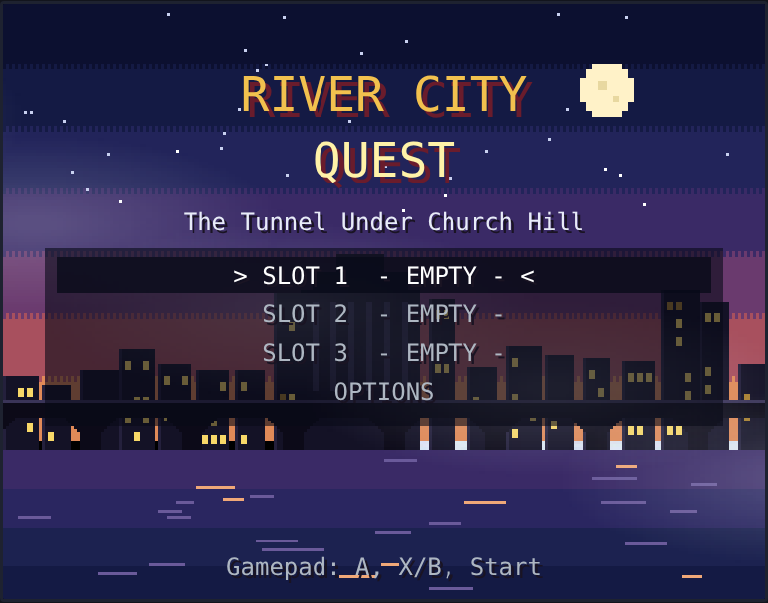
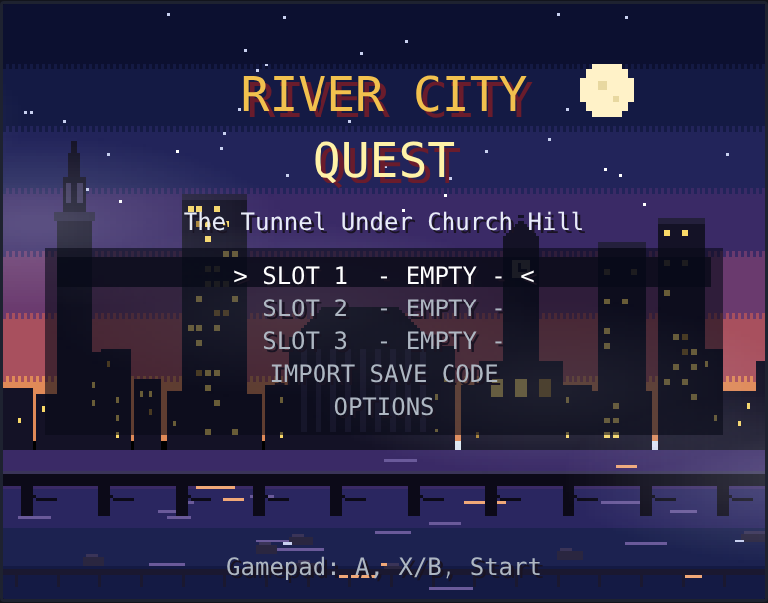
A Richmond look: cast-iron porches and menu scrollwork, ghost signs and murals on old brick, neighborhood house styles (Fan bay windows, Church Hill clapboard and tin roofs, Jackson Ward porches, warehouses, the glass conservatory), tea-green James with granite boulders, magnolias and dogwoods, and 
Claude-Session: https://claude.ai/code/session_01Eoe2yTJzU23vy12F62G5WF

diff --git a/js/style.js b/js/style.js
@@ -1,0 +1,103 @@
+"use strict";
+/* River City Quest: Richmond's look. Cast-iron porches and railings, ghost signs and murals on old brick,
+   neighborhood house styles, the James River palette, magnolias and dogwoods, and the skyline. */
+
+/* ---------- a 3x5 pixel font for painted signs ---------- */
+const F5={A:'010101111101101',B:'110101110101110',C:'011100100100011',D:'110101101101110',E:'111100110100111',F:'111100110100100',G:'011100101101011',H:'101101111101101',
+  I:'111010010010111',J:'001001001101010',K:'101101110101101',L:'100100100100111',M:'101111111101101',N:'110101101101101',O:'010101101101010',P:'110101110100100',
+  Q:'010101101110011',R:'110101110101101',S:'011100010001110',T:'111010010010010',U:'101101101101111',V:'101101101101010',W:'101101111111101',X:'101101010101101',
+  Y:'101101010010010',Z:'111001010100111','&':'010101010101011','.':'000000000000010',' ':'000000000000000','5':'111100110001110','C2':'011100100100011'};
+function sign5(str,x,y,sc,col){let q=x;for(const ch of str){const m=F5[ch];if(m)for(let i=0;i<15;i++)if(m[i]=='1')R(q+(i%3)*sc,y+(i/3|0)*sc,sc,sc,col);q+=4*sc;}}
+
+/* ---------- where the ghost signs and murals go ---------- */
+const SIGNS=['FLOUR & FEED','TOBACCO','DRY GOODS','COAL & ICE','HARDWARE','GINGER ALE','RIVER CITY SOAP','CIGARS','FURNITURE','OYSTERS','SEED & GRAIN','PIANOS'];
+const DECOR={'ow:0,0':['sign','mural'],'ow:1,0':['sign','mural'],'ow:2,0':['sign'],'ow:3,1':['sign','sign'],'ow:2,3':['mural','sign','mural'],'ow:1,1':['mural','mural'],'ow:0,1':['mural','mural'],'ow:3,2':['sign'],'ow:1,2':[]};
+function decorFor(s){if(s.decor)return s.decor;s.decor=[];s.decoCells=new Set();const want=(DECOR[s.id]||[]).slice();if(!want.length||!s.g0)return s.decor;
+  const runs=[];for(let y=1;y<s.h-1;y++){let x0=-1;for(let x=0;x<=s.w;x++){const ok=x<s.w&&s.g0[y][x]=='B'&&s.g0[y+1]&&s.g0[y+1][x]!='B'&&s.g0[y-1][x]=='B';
+      if(ok&&x0<0)x0=x;if(!ok&&x0>=0){if(x-x0>=5)runs.push([x0,y,x-x0]);x0=-1;}}}
+  runs.sort((a,b)=>b[2]-a[2]||HH(a[0],a[1],s.seed)%7-HH(b[0],b[1],s.seed)%7);
+  for(const r of runs){if(!want.length)break;const kind=want.shift(),len=Math.min(r[2],kind=='sign'?9:8),x0=r[0]+((r[2]-len)>>1),k=HH(s.seed,r[1],x0)>>>0;
+    s.decor.push({kind,x:x0,y:r[1],len,k});for(let i=0;i<len;i++)s.decoCells.add((x0+i)+','+r[1]);}
+  return s.decor;}
+function isDecor(s,tx,ty){return s.decoCells&&s.decoCells.has(tx+','+ty);}
+function drawDecor(s){for(const d of decorFor(s)){const x=d.x*TS,y=d.y*TS,w=d.len*TS;
+  if(d.kind=='sign'){const txt=SIGNS[d.k%SIGNS.length],sc=txt.length*8<=w-8?2:1,tw=txt.length*4*sc-sc,th=5*sc;
+    g.globalAlpha=.42;R(x+3,y+3,w-6,11,'#e8dcc0');g.globalAlpha=.5;sign5(txt,x+((w-tw)>>1),y+3+((11-th)>>1),sc,'#6a1c1c');
+    g.globalAlpha=1;for(let i=0;i<w/3;i++){const q=HH(d.k,i,9);if(q%3==0){const px=x+3+q%(w-6),py=y+3+(q>>8)%11;R(px,py,1+(q>>12)%2,1,'#a85040');}}}
+  else{drawMural(d.k%6,x+1,y+2,w-2,12);R(x+1,y+14,w-2,1,'rgba(10,8,24,.3)');}}}
+function drawMural(kind,x,y,w,h){
+  if(kind==0){const sky=['#f08a4a','#f8b86a','#f8d890'];sky.forEach((c,i)=>R(x,y+i*2,w,2,c));R(x,y+6,w,h-6,'#3e6a8a');R(x+(w>>1)-4,y+1,8,5,'#fff2a8');
+    for(let i=0;i<w;i+=6)R(x+i,y+8+((i>>2)&1),4,1,'#a8c8e0');for(let i=6;i<w;i+=17)R(x+i,y+10,4,2,'#8a8e9c');}
+  else if(kind==1){R(x,y,w,h,'#2e8a8a');for(let i=4;i<w-4;i+=12){const cx=x+i+2,cy=y+6;R(cx-3,cy-1,7,3,'#ffffff');R(cx-1,cy-3,3,7,'#ffffff');R(cx-3,cy-1,1,1,'#f080a0');R(cx+3,cy+1,1,1,'#f080a0');R(cx,cy,1,1,'#d8b048');}}
+  else if(kind==2){R(x,y,w,h,'#f2c14e');for(let i=3;i<w-8;i+=14){R(x+i,y+4,6,4,'#c41e3a');R(x+i+5,y+2,3,3,'#c41e3a');R(x+i+7,y+3,2,1,'#f08030');R(x+i-1,y+5,2,2,'#8a1424');R(x+i+6,y+3,1,1,'#1a1423');}}
+  else if(kind==3){R(x,y,w,h,'#1e2a5e');const C=['#e83048','#f2c14e','#3ac2e8','#58c868','#f890a0'];for(let i=0;i<w;i+=6){const c=C[(i/6)%5];for(let j=0;j<6;j++)R(x+i+j,y+h-1-Math.min(j,5-j)*2,1,1+Math.min(j,5-j)*2,c);}}
+  else if(kind==4){R(x,y,w,h,'#a8d0e0');R(x,y+9,w,3,'#6a9ab0');for(let i=6;i<w-6;i+=22){R(x+i,y+2,2,8,'#5a6470');R(x+i-2,y+2,4,2,'#5a6470');R(x+i-4,y+3,2,1,'#e8b048');R(x+i+2,y+5,4,3,'#7a8490');R(x+i+1,y+10,1,2,'#3a4048');R(x+i+3,y+10,1,2,'#3a4048');}}
+  else{R(x,y,w,h,'#6a3a8a');for(let i=0;i<w;i+=5){const hh=3+HH(i,x,3)%7;R(x+i,y+h-hh,4,hh,'#2a1a3a');if(hh>5)R(x+i+1,y+h-hh+2,1,1,'#f8d868');}R(x+3,y+2,3,3,'#fff2a8');}}
+
+/* ---------- cast iron ---------- */
+function ironPorch(x,y,tint){const I='#1a1a22',H='#4a4a58';
+  R(x,y+5,16,2,I);R(x,y+5,16,1,H);R(x+1,y+7,2,7,I);R(x+13,y+7,2,7,I);R(x+1,y+7,1,7,H);
+  for(let i=3;i<13;i+=3){R(x+i,y+8,2,1,I);R(x+i,y+9,1,1,I);R(x+i+1,y+10,1,1,I);}
+  R(x,y+11,16,1,I);R(x,y+14,16,1,I);for(let i=1;i<16;i+=2)R(x+i,y+12,1,2,I);for(let i=2;i<16;i+=4){R(x+i,y+12,1,1,H);}
+  R(x,y+15,16,1,'rgba(10,8,24,.3)');}
+function ironCurl(x,y,fx,fy,c,h){const P=[[0,0],[1,0],[2,0],[3,0],[0,1],[0,2],[0,3],[2,2],[3,2],[3,3],[2,3]];for(const [a,b] of P)R(x+a*fx,y+b*fy,1,1,c);R(x+(fx>0?1:-1),y+(fy>0?1:-1),1,1,h);}
+
+/* ---------- neighborhood house styles ---------- */
+function styledFacade(s,x,y,h,tx,ty,c){
+  const hs=s.hs,ft=h%4,clap=c[3]=='clap';
+  if(hs=='glass'){R(x,y,16,16,'#a8d8d8');for(let i=0;i<16;i+=4){R(x+i,y,1,16,'#eef6f2');}for(let j=3;j<16;j+=5)R(x,y+j,16,1,'#eef6f2');R(x+2,y+2,3,3,'#d8f0f0');R(x,y+15,16,1,'#6a8a8a');return true;}
+  if(clap){R(x,y,16,16,c[0]);for(let j=1;j<16;j+=3){R(x,y+j,16,1,c[1]);R(x,y+j+1,16,1,c[2]);}R(x+15,y,1,16,c[1]);}
+  if(hs=='fan'&&ft>0&&ft<3){R(x+2,y+3,12,11,'#efe4c8');R(x+3,y+4,10,9,'#d8ccb0');R(x+2,y+3,12,1,'#fffaf0');R(x+2,y+14,12,1,'rgba(10,8,24,.35)');
+    for(const a of[4,7,10]){const lit=(h>>(5+a))%3==0;R(x+a,y+5,2,7,lit?'#f8d868':'#28406a');if(!lit)R(x+a,y+5,1,1,'#88a8d8');}
+    if(s.ow)(s.wins||(s.wins={}))[x+','+y]=[x,y,(h>>7)%3!=0];
+    for(let i=1;i<16;i+=3)R(x+i,y+2,1,1,'#8a7a60');return true;}
+  if(hs=='hill'&&ft>0&&ft<3){for(const a of[3,9]){R(x+a-1,y+4,1,8,'#2f6a3a');R(x+a+4,y+4,1,8,'#2f6a3a');R(x+a,y+4,4,8,'#efe4c8');R(x+a+1,y+5,2,6,'#28406a');R(x+a+1,y+8,2,1,'#efe4c8');}
+    if(s.ow)(s.wins||(s.wins={}))[x+','+y]=[x,y,(h>>7)%3!=0];return true;}
+  if(hs=='ware'&&ft>0){for(const a of[2,9]){R(x+a,y+5,5,9,'#c8bca8');R(x+a+1,y+4,3,1,'#c8bca8');R(x+a+1,y+6,3,8,'#24324e');R(x+a+2,y+5,1,1,'#24324e');R(x+a+1,y+9,3,1,'#c8bca8');R(x+a+1,y+6,1,1,'#6a88b8');}
+    if(ft==3){R(x+3,y+4,10,12,'#1a1423');R(x+4,y+5,8,11,'#2f5a3a');R(x+8,y+5,1,11,'#1a1423');R(x+4,y+9,8,1,'#24482e');}
+    if(s.ow&&ft<3)(s.wins||(s.wins={}))[x+','+y]=[x,y,(h>>7)%3!=0];return true;}
+  return false;}
+function wantsPorch(s,h){return(s.hs=='jw'&&h%3!=1)||(s.hs=='hill'&&h%3==0)||(s.hs=='fan'&&h%5==0);}
+function tinRoof(x,y,h,nb){R(x,y,16,16,'#8a929c');for(let i=1;i<16;i+=4){R(x+i,y,1,16,'#b8c0c8');R(x+i+1,y,1,16,'#6a727c');}
+  if(h%5==0)R(x+2+h%9,y+3,3,2,'#a86a4a');
+  if(nb(0,-1)!='B'){R(x,y,16,2,'#c8d0d8');R(x,y+2,16,1,'#4a525c');}if(nb(-1,0)!='B')R(x,y,1,16,'#c8d0d8');if(nb(1,0)!='B')R(x+15,y,1,16,'#4a525c');}
+function glassRoof(x,y,h,nb){R(x,y,16,16,'#9ad0d0');for(let i=0;i<16;i+=4)R(x+i,y,1,16,'#e4f4f0');for(let j=0;j<16;j+=4)R(x,y+j,16,1,'#e4f4f0');R(x+5,y+5,4,4,'#c8ecec');
+  if(nb(0,-1)!='B')R(x,y,16,2,'#4a6a6a');if(nb(-1,0)!='B')R(x,y,2,16,'#4a6a6a');if(nb(1,0)!='B')R(x+14,y,2,16,'#4a6a6a');}
+
+/* ---------- the James River and the ponds ---------- */
+const WATER={river:{base:'#4a6e62',dark:'#3e5e54',hi:'#b8d4c0',mid:'#7a9e8a',shade:'#2c4640',foam:'#e8f4ea',rapid:'#5e8878'},
+  pond:{base:'#3a7a86',dark:'#326c78',hi:'#a8dce0',mid:'#5aa0b0',shade:'#24505c',foam:'#d8f4f4',rapid:'#4a8a9a'}};
+function waterOf(s){return s.ow&&(s.ay>=2||s.id=='ow:2,3')&&s.id!='ow:0,2'&&s.id!='ow:1,3'?WATER.river:WATER.pond;}
+function boulder(x,y,h){R(x+3,y+7,10,7,'#1a1423');R(x+4,y+6,8,8,'#1a1423');R(x+4,y+7,8,6,'#8e909c');R(x+5,y+6,6,1,'#a8aab4');R(x+5,y+7,3,2,'#c4c6ce');R(x+9,y+11,3,2,'#6a6c78');
+  R(x+2,y+13,12,1,'#e8f4ea');R(x+1,y+12,2,1,'#e8f4ea');R(x+13,y+12,2,1,'#e8f4ea');}
+
+/* ---------- magnolias and dogwoods ---------- */
+function treeKind(h){const q=HH(h,3,4)%7;return q==0?'magnolia':q==1?'dogwood':'oak';}
+function magnolia(x,y,h){blob(x,y,'#1f5a3a','#143c28','#0c2a1a');R(x+4,y+2,4,2,'#3a8a5a');R(x+9,y+5,3,1,'#3a8a5a');R(x+3,y+6,2,1,'#3a8a5a');
+  const sn=typeof season=='function'?season():'summer';if(sn=='spring'||sn=='summer')for(const [a,b] of [[5,4],[10,3],[7,8]]){R(x+a,y+b,3,3,'#fffaf0');R(x+a+1,y+b+1,1,1,'#e8d890');}}
+function dogwood(x,y,h){const sn=typeof season=='function'?season():'summer';
+  if(sn=='fall'){blob(x,y,'#a83a28','#7a2418','#4a140c');R(x+4,y+2,4,2,'#d86a48');R(x+9,y+5,2,1,'#e8a048');return;}
+  if(sn=='winter'){R(x+7,y+3,2,8,'#5a3a24');R(x+4,y+4,3,1,'#5a3a24');R(x+9,y+5,3,1,'#5a3a24');R(x+5,y+2,1,2,'#5a3a24');R(x+10,y+3,1,2,'#5a3a24');return;}
+  blob(x,y,'#3a8a3a','#2a6a2a','#143c22');if(sn=='spring')for(let i=0;i<7;i++){const q=HH(h,i,21);R(x+3+q%10,y+2+(q>>4)%8,2,2,i%3?'#ffffff':'#f8b8d0');}else{R(x+4,y+2,4,2,'#58a850');}}
+
+/* ---------- the skyline for the title and ending ---------- */
+function drawSkyline(){const D='#141226',E='#24203c',WIN=(x,y)=>HH(x,y,(frame>>6))%9?'#f8d868':'#a88030';
+  for(let i=0;i<W;i+=11){const q=HH(i,5,2),hh=14+q%22,w=9+(q>>6)%3;R(i,150-hh,w,hh,D);for(let y=150-hh+4;y<146;y+=6)for(let x=i+2;x<i+w-2;x+=3)if(HH(x,y,4)%4==0)R(x,y,1,2,WIN(x,y));}
+  // the Carillon: square tower, open belfry, little spire
+  R(18,72,12,78,D);R(17,70,14,3,E);R(20,58,8,12,D);R(21,60,2,7,'#3a3458');R(25,60,2,7,'#3a3458');R(22,50,4,8,D);R(23,46,2,4,D);
+  // the James Monroe Building and the Riverfront Plaza towers
+  R(60,64,22,86,D);R(60,64,22,2,E);for(let y=68;y<146;y+=5)for(let x=62;x<80;x+=3)if(HH(x,y,7)%3==0)R(x,y,2,2,WIN(x,y));
+  for(const [x,t] of [[200,80],[220,72]]){R(x,t,16,150-t,D);R(x,t,16,2,E);for(let y=t+4;y<146;y+=5)for(let xx=x+2;xx<x+14;xx+=3)if(HH(xx,y,8)%3==0)R(xx,y,2,2,WIN(xx,y));}
+  // the Capitol: temple front with columns and a pediment
+  R(96,112,48,38,D);for(let i=0;i<10;i++)R(98+i,111-i,44-i*2,1,D);for(let x=100;x<142;x+=5)R(x,116,2,28,'#2c2848');R(94,144,52,6,D);
+  // Main Street Station: clock tower with a pyramid roof
+  R(168,78,12,72,D);for(let i=0;i<8;i++)R(168+i,78-i,12-i*2,1,D);R(171,86,6,6,'#e8dcb0');R(173,87,1,3,'#1a1423');R(173,89,3,1,'#1a1423');R(160,120,28,30,D);
+  for(const x of[164,172,180])R(x,126,4,6,WIN(x,126));
+}
+function drawRiverFront(){
+  // Mayo Bridge: low arches across the rapids
+  R(0,158,W,4,'#0c0a18');R(0,157,W,1,'#3a3458');for(let x=6;x<W;x+=26){R(x,162,4,10,'#0c0a18');for(let i=0;i<8;i++)R(x+4+i,162+Math.round(Math.sqrt(64-(i-4)*(i-4))/2),1,1,'#0c0a18');}
+  // rocks in the falls and the Pipeline walkway
+  for(let i=0;i<9;i++){const q=HH(i,9,3),x=(q%W),y=176+(q>>8)%14;R(x,y,6+(q>>4)%4,3,'#2a2640');R(x+1,y-1,4,1,'#3a3458');if((frame>>3)+i&1)R(x-2,y+2,3,1,'#c8d0f0');}
+  R(0,190,W,2,'#1a1830');for(let x=4;x<W;x+=14)R(x,190,1,6,'#1a1830');
+}

diff --git a/js/world.js b/js/world.js
@@ -133,7 +133,7 @@ const FOLKC=[[C3('#6a4020','#4a2c14','#8a5a30'),C3('#58a850','#2f7a3c','#90d070'
 let folkN=0;
 const F=(...lines)=>{const c=FOLKC[folkN++%FOLKC.length];return{who:'Local',hat:c[0],shirt:c[1],talk:'folk',lines,wander:true};};
 
-ow(0,0,"Scott's Addition",{base:'p',pal:[STEEL,BRICK,STEEL,BRICK2],rows:[
+ow(0,0,"Scott's Addition",{hs:'ware',base:'p',pal:[STEEL,BRICK,STEEL,BRICK2],rows:[
 'B13 p6 B13','B X12 p6 B13','B X12 p6 B13','B ..?..nn..?.. p6 B13','B .?.n....n.?. p6 B4 D B8','B ..n..?...n.. p6 susasasus`ss B',
 'B ...n.nn.n?.. p6 sasasas@ssss B','B ..?.....?... p6 s2 M s2 l s6 B','B f5 .. f5 @ p5 s12 B','B p31','B p6 ! p17 ! p6','B p10 @ p20','B p31',
 'B s2 l s5 l s4 p4 s4 l s5 l s2 B','B B5 s B6 s p4 s b12 B','B B5 s B6 s p4 s b .10 b B','B B5 s B6 s p4 s b ...,,.!... b B','B B5 s B6 s p4 s b .,,....,,. b B',
@@ -148,14 +148,14 @@ ow(1,0,"Broad Street",{base:'p',pal:[BRICK,CREAM,['#8a8e9c','#62667a','#a8acba']
   npcs:[N('commuter'),F('My grandmother had lunch at the Miller & Rhoads Tea Room every Christmas.','The streetcars are long gone, but the Pulse bus runs right down Broad.')],
   enT:['rat','scooter','scooter','rat'],readsL:['broad','streetcar'],doorsL:[{to:'tearoom:0,0'}],chestsL:['coins50'],
   lm:[{art:'store',x:1,y:1,w:13,h:6,read:'broad',c:'#c8b48c'},{art:'store',x:18,y:1,w:13,h:6,read:'broad',c:'#b0a8a0'},{art:'shelter',x:23,y:13,w:3,h:1}],cars:[{y:10,dir:1,kind:'bus'},{y:12,dir:-1}]});
-ow(2,0,"Jackson Ward",{base:'p',pal:[BRICK,BRICK2],rows:[
+ow(2,0,"Jackson Ward",{hs:'jw',base:'p',pal:[BRICK,BRICK2],rows:[
 'B32','B B8 s2 l s7 X12 B','B B8 s10 X12 B','B B8 s3 @ s6 X12 B','B B4 D B3 s10 X5 D X6 B','B s8 M s7 ? s5 ? s7 B','B s2 t s4 t s4 t s4 t s4 t s7 B',
 'B s4 ? s15 Q s9 B','B s5 @ s13 Y s10 B','p32','p5 ! p20 ! p5','p12 @ p19','p20 ? p11','B s2 l s10 p4 s7 ? s2 l s2 B','B f3 s f8 s p4 s f8 s f3 B',
 'B B12 s p4 s B12 B','B B12 s p4 s B12 B','B B12 s p4 s B12 B','B s5 ? s7 p4 s13 B','B b3 s ` s8 p4 s7 ! s5 B','B $ b2 s10 p4 s13 B','B14 p4 B14'],
   npcs:[N('musician'),N('dancer'),F('They called Second Street the Deuce. Every club on it had a band.','Mrs. Walker\'s house is just down the street. They keep it as a museum.')],
   enT:['rat','scooter','rat'],readsL:['jward','bojangles','bojangles'],doorsL:[{to:'bank:0,0'},{to:'hippo:0,0'}],chestsL:['coins50'],
   lm:[{art:'hippodrome',x:19,y:1,w:12,h:4,read:'jward'}],cars:[{y:9,dir:1}]});
-ow(3,0,"Church Hill",{base:'.',rows:[
+ow(3,0,"Church Hill",{hs:'hill',roof:'tin',pal:[BRICK,['#e8d48a','#b8a45a','#f8e8b0','clap'],['#9ab8a0','#6c8c74','#bcd8c2','clap'],BRICK2,['#8aa0c8','#5e749c','#aec2e4','clap']],base:'.',rows:[
 'T32','T r8 .9 X6 .7 T','T r8 .9 X6 .7 T','T r % r D r4 .9 X6 .3 @ .3 T','T .3 k .3 l .4 M .4 X6 .7 T','T .3 k .13 X2 D X3 .7 T','T .3 k .12 l .13 T',
 'T .3 k .11 x . x . x . ! .8 T','T .15 x . x . x .3 l .6 T','.31 T','. ! .29 T','.9 @ .22','.32','T R13 S4 R13 T',
 'T .4 ,4 .10 @ .11 T','T .3 l .15 b6 .5 T','T .19 b.*..b .5 T','T .5 ! .13 b6 .5 T','T .10 i .2 i .11 M .4 T','T b3 ` .17 l .8 T','T $ b2 .27 T','T14 .4 T14'],
@@ -168,7 +168,7 @@ ow(0,1,"Carytown",{base:'s',awn:true,pal:[['#d8a048','#a87428','#f0c070'],['#5aa
   npcs:[F('I come for the movies at the Byrd. Two dollars, and an organ before the show!','Every summer the whole street smells like watermelon.'),F('Have you seen the eggs at the art museum? Made for a Russian empress!'),N('vendor')],
   enT:['scooter','rat','scooter'],readsL:['carytown'],doorsL:[{to:'vmfa:0,0'},{to:'shop:0,0'},{to:'byrd:0,0'}],chestsL:['coins50'],
   lm:[{art:'vmfa',x:2,y:1,w:11,h:5,read:'faberge'},{art:'byrd',x:19,y:14,w:7,h:3,read:'byrd'}]});
-ow(1,1,"The Fan",{base:'.',pal:[CREAM,['#9ab8a0','#6c8c74','#bcd8c2'],BRICK,['#8aa0c8','#5e749c','#aec2e4']],rows:[
+ow(1,1,"The Fan",{hs:'fan',base:'.',pal:[CREAM,['#9ab8a0','#6c8c74','#bcd8c2'],BRICK,['#8aa0c8','#5e749c','#aec2e4']],rows:[
 'B14 p4 B14','B s5 @ s7 p4 s13 B','B s B5 s B5 s p4 s B5 s B5 s B','B s B5 s B5 s p4 s B5 s B5 s B','B s B5 s B5 s p4 s B5 s B5 s B',
 'B s t s4 M s4 t s p4 s t s4 t s4 t s B','B .3 ! .9 p4 .8 @ .4 B','B s13 p4 s13 B','B s3 l s9 p4 s9 l s3 B',
 'p32','.2 i .3 , Y , .2 i .2 p4 .5 i .8','. ? .12 p4 .5 ! .8','p32','B s3 l s9 p4 s9 l s3 B',
@@ -184,7 +184,7 @@ ow(2,1,"Capitol Square",{base:'.',rows:[
   npcs:[N('archivist'),N('quizguide'),F('The squirrels here are bolder than the legislators.','I eat lunch by the fountain every day. Even in the fog.')],
   enT:[],readsL:['capitol','civilrights'],doorsL:[{to:'capitol:0,0'}],chestsL:['coins50'],
   lm:[{art:'capitol',x:18,y:1,w:10,h:6,read:'capitol'},{art:'belltower',x:5,y:1,w:2,h:4,read:'capital1780'}]});
-ow(3,1,"Shockoe Bottom",{base:'p',pal:[BRICK2,STONE],rows:[
+ow(3,1,"Shockoe Bottom",{hs:'ware',base:'p',pal:[BRICK2,STONE],rows:[
 'B14 p4 B14','B s5 ? s7 p4 s X12 B','B s3 l s9 p4 s X12 B','B s4 B5 s4 p4 s X12 B','B s4 B5 s4 p4 s X12 B','B s4 B5 s4 p4 s X12 B','B s13 p4 s X5 D X6 B',
 'B K30 B','B s13 p4 s M s4 ` s6 B','p31 B','p6 ! p17 ! p6 B','p10 @ p20 B','p5 ? p9 ? p9 ? p5 B','B s13 p4 s3 M s9 B','B s13 p4 s2 X10 s B',
 'B s2 B6 s5 p4 s2 X10 s B','B s2 B6 s5 p4 s3 a s a s @ s a s a s B','B s2 B2 D B3 s5 p4 s13 B','B s7 M s5 p4 s4 ! s8 B','B b3 s4 ? s5 p4 s5 ? s7 B','B $ b2 s10 p4 s5 ` s7 B','B14 p4 B14'],
@@ -210,7 +210,7 @@ ow(2,2,"Belle Isle",{base:'.',rows:[
 'w3 . X6 .16 ! .2 w3','w3 . X6 .11 M .7 w3','w3 . X2 % X3 .19 w3','w3 .2 ? .5 ! .17 w3','w3 .9 r2 .3 ? r2 .9 w3','w14 ~4 w14','w14 ~9 $ r w7','w14 ~4 w14'],
   npcs:[N('kayaker'),N('volunteer')],enT:['crab','goose','crab','crab'],readsL:['belleisle','falls'],doorsL:[{to:'quarry:0,1'},{to:'ruins:0,0'}],chestsL:['coins50'],
   lm:[{art:'ruins',x:4,y:14,w:6,h:3,read:'belleisle'}]});
-ow(3,2,"Rocketts Landing",{base:'n',pal:[BRICK2],rows:[
+ow(3,2,"Rocketts Landing",{hs:'ware',base:'n',pal:[BRICK2],rows:[
 'r14 n4 r14','r n2 B6 n5 n4 n3 B10 r','r n2 B6 n12 B10 r','r n2 B2 D B3 n3 M n8 B10 r','r n5 ! n18 ! n5 r','r n3 l n8 ? n8 l n8 r','r n22 M n7 r',
 'r n4 @ n10 i n2 i n11 r','r n8 ? n12 ? n8 r','n31 r','n10 ! n20 r','n6 ? n12 @ n11 r','n31 r','r n3 ` n26 r','r n4 =2 n3 =2 n19 r',
 'r w4 =2 X7 w2 ~2 w13 r','r w4 =2 X7 w2 ~2 w13 r','r w4 =2 w8 ~6 w10 r','r w4 $ w10 ~2 * ~3 w9 r','r w15 ~6 w9 r','r w30 r','r32'],
@@ -222,7 +222,7 @@ ow(1,3,"Forest Hill Park",{base:'.',pal:[STONE],rows:[
   npcs:[N('ranger'),N('conductor'),F('My great-grandmother rode the roller coaster here for a nickel.','The lake used to freeze over in winter. Everyone went skating.')],
   enT:['squirrel','goose','squirrel'],readsL:['foresthill','!carousel'],doorsL:[{to:'stonehouse:0,0'}],itemsL:[{id:'carkey',kind:'carkey'}],chestsL:['coins50'],
   lm:[{art:'stonehouse',x:4,y:2,w:7,h:4,read:'foresthill'},{art:'trolley',x:4,y:10,w:3,h:1}]});
-ow(2,3,"Manchester",{base:'p',pal:[BRICK,STEEL],rows:[
+ow(2,3,"Manchester",{hs:'ware',base:'p',pal:[BRICK,STEEL],rows:[
 'w14 ~4 w8 f4 w2','w14 ~4 w8 =4 w2','w14 ~4 w8 =4 w2','U3 e U5 e U4 p4 U2 e U5 =4 U2','B s5 M s7 p4 s4 @ s3 M s4 B','B s2 l s5 l s4 p4 s4 l s4 l s3 B',
 'B s2 B6 s5 p4 s B11 s B','B s2 B6 s5 p4 s B11 s B','B s2 B2 D B3 s5 p4 s B4 e B6 s B','p31 B','p6 ! p17 ! p7','p13 @ p18','p32','B s3 q s9 p4 s9 q s3 B',
 'B s2 B6 s5 p4 s B11 s B','B s2 B6 s5 p4 s B11 s B','B s2 B6 s5 p4 s B4 e B6 s B','B s13 p4 s7 ! s5 B','B s3 ` s9 p4 s13 B','B b3 s10 p4 s13 B','B $ b2 s10 p4 s13 B','B32'],
@@ -243,7 +243,7 @@ ow(0,-1,"Bryan Park",{base:'.',rows:['TTTTTTTTTTTTTTTTTTTTTTTTTTTTTTTT','T......
     F('East of here is the botanical garden. Their glass conservatory has been acting strange lately.','I heard something in there is growing way too fast.'),
     F('Scott\'s Addition is just south, down the path.','Frisbee golf? In this fog? Maybe tomorrow.')],
   enT:['squirrel','goose','squirrel','goose'],readsL:['bryanpark'],chestsL:['coins50']});
-ow(1,-1,"Lewis Ginter Botanical Garden",{base:'.',rows:['TTTTTTTTTTTTTTTTTTTTTTTTTTTTTTTT','T..............................T','T...BBBBBBBBBB.................T','T...BBBBBBBBBB....,,,,,,,,.....T','T...BBBBBBBBBB....,,,,,,,,.....T','T...BBBBDBBBBB....,,,www,,.....T','T.............M...,,,www,,.....T','T...l....l.........,,,,,,......T','...............@...............T','......!........................T','...............................T','T....ssssssssssssssssssss......T','T....s,,,,,,s..T..s,,,,,s......T','T....s,,!,,,s.....s,,,,,s......T','T....ssssssssssssssssssss......T','T..............................T','T..TT....@.............TT......T','T..TT.......!..........TT..$...T','T..............................T','T.....wwww...........`.........T','T.....wwww.....................T','TTTTTTTTTTTTTTTTTTTTTTTTTTTTTTTT'],
+ow(1,-1,"Lewis Ginter Botanical Garden",{hs:'glass',base:'.',rows:['TTTTTTTTTTTTTTTTTTTTTTTTTTTTTTTT','T..............................T','T...BBBBBBBBBB.................T','T...BBBBBBBBBB....,,,,,,,,.....T','T...BBBBBBBBBB....,,,,,,,,.....T','T...BBBBDBBBBB....,,,www,,.....T','T.............M...,,,www,,.....T','T...l....l.........,,,,,,......T','...............@...............T','......!........................T','...............................T','T....ssssssssssssssssssss......T','T....s,,,,,,s..T..s,,,,,s......T','T....s,,!,,,s.....s,,,,,s......T','T....ssssssssssssssssssss......T','T..............................T','T..TT....@.............TT......T','T..TT.......!..........TT..$...T','T..............................T','T.....wwww...........`.........T','T.....wwww.....................T','TTTTTTTTTTTTTTTTTTTTTTTTTTTTTTTT'],
   npcs:[F('The conservatory doors blew open in the fog, and vines came out after them.','Our gardener left a watering can somewhere inside. Plants in there respond to it. Strongly.'),
     F('Something enormous is blooming under the glass dome. It smells like a dumpster in August.','Bryan Park is west of here.')],
   enT:['squirrel','rat','goose'],readsL:['ginter'],doorsL:[{to:'conserv:0,2'}],chestsL:['coins50']});

diff --git a/js/art.js b/js/art.js
@@ -55,19 +55,24 @@ function blob(x,y,mid,dark,out){
 }
 function facade(s,x,y,h,tx,ty,roofAbove,plain){
   const pl=s.pal||[BRICK],c=pl[(tx+(ty>5?3:0))%pl.length];
+  if(isDecor(s,tx,ty))plain=true;
   R(x,y,16,16,c[0]);
   for(let r=0;r<4;r++){R(x,y+r*4+3,16,1,c[1]);const o=r&1?4:0;R(x+o,y+r*4,1,3,c[1]);R(x+o+8,y+r*4,1,3,c[1]);
     const q=HH(h,r,4);if(q%3==0)R(x+((o+1+(q>>3)%2*8)%16),y+r*4,7,3,c[2]);}
   R(x+15,y,1,16,c[1]);R(x,y,1,16,c[2]);
+  if(c[3]=='clap'||s.hs=='glass')styledFacade(s,x,y,h,tx,ty,c);
   if(roofAbove)R(x,y,16,2,'rgba(10,8,24,.4)');else{R(x,y,16,2,'#efe4c8');R(x,y+2,16,1,'#8a7a60');R(x,y,16,1,'#fffaf0');}
   if(plain)return;
   const ft=h%4;
+  if(s.hs&&s.hs!='glass'&&s.hs!='jw'&&styledFacade(s,x,y,h,tx,ty,c)){if(wantsPorch(s,h))ironPorch(x,y);return;}
+  if(s.hs=='glass')return;
   if(ft==0){R(x+4,y+4,8,12,'#efe4c8');R(x+5,y+5,6,11,'#5a3420');R(x+6,y+6,4,3,'#28406a');R(x+6,y+6,1,1,'#88a8d8');R(x+6,y+10,4,5,'#7a4a2c');R(x+9,y+11,1,1,'#f2c14e');R(x+3,y+15,10,1,'#c8c0b0');}
   else if(ft<3){const lit=(h>>5)%3==0;if(s.ow)(s.wins||(s.wins={}))[x+','+y]=[x,y,(h>>7)%3!=0];R(x+3,y+4,10,9,'#efe4c8');R(x+4,y+5,8,7,lit?'#f8d868':'#28406a');R(x+7,y+5,2,7,'#efe4c8');R(x+4,y+8,8,1,'#efe4c8');
     if(lit){R(x+4,y+5,3,1,'#fff6c0');}else{R(x+5,y+5,1,1,'#88a8d8');R(x+4,y+6,1,1,'#88a8d8');R(x+10,y+9,1,1,'#5878a8');}
     R(x+2,y+13,12,1,'#d8ccb0');R(x+2,y+14,12,1,'rgba(10,8,24,.3)');}
   if(s.awn&&ft<3){const ac=[['#e83048','#ffffff'],['#2e9d6b','#ffffff'],['#3d63c8','#fff2a8']][(tx>>1)%3];
     for(let i=0;i<16;i+=2){R(x+i,y+2,2,3,ac[(i>>1)&1]);R(x+i,y+5,2,1,(i>>1)&1?'#c8c8d0':'#a01c30');}R(x,y+6,16,1,'rgba(10,8,24,.3)');}
+  if(s.hs=='jw'&&ft>0&&wantsPorch(s,h))ironPorch(x,y);
 }
 function roof(x,y,h,nb){
   R(x,y,16,16,'#4c4854');
@@ -96,10 +101,10 @@ function tile(s,ch,tx,ty,fr,plain){
     case'T':grass(x,y,h);
       if(nb(-1,0)=='T')R(x,y+1,8,13,'#1c5230');if(nb(1,0)=='T')R(x+8,y+1,8,13,'#1c5230');if(nb(0,-1)=='T')R(x+1,y,14,8,'#1c5230');if(nb(0,1)=='T')R(x+1,y+8,14,8,'#1c5230');
       R(x+3,y+13,11,2,'rgba(10,8,24,.3)');R(x+7,y+10,3,5,'#6a4424');R(x+7,y+10,1,5,'#4a2c14');
-      blob(x,y,'#2f7a3c','#1f5a30','#143c22');R(x+4,y+2,4,2,'#58a850');R(x+3,y+4,3,2,'#58a850');R(x+5,y+2,2,1,'#90d070');R(x+9,y+4,2,1,'#58a850');
+      {const tk=s.interior?'oak':treeKind(h);if(tk=='magnolia')magnolia(x,y,h);else if(tk=='dogwood')dogwood(x,y,h);else{blob(x,y,'#2f7a3c','#1f5a30','#143c22');R(x+4,y+2,4,2,'#58a850');R(x+3,y+4,3,2,'#58a850');R(x+5,y+2,2,1,'#90d070');R(x+9,y+4,2,1,'#58a850');}}
       {const q=HH(h,1,8);R(x+4+q%7,y+6+(q>>4)%3,1,1,'#143c22');R(x+6+(q>>7)%5,y+3,1,1,'#1f5a30');}
       break;
-    case'B':if(nb(0,1)!='B')facade(s,x,y,h,tx,ty,nb(0,-1)=='B',plain);else roof(x,y,h,nb);break;
+    case'B':if(nb(0,1)!='B')facade(s,x,y,h,tx,ty,nb(0,-1)=='B',plain);else if(s.roof=='tin')tinRoof(x,y,h,nb);else if(s.hs=='glass')glassRoof(x,y,h,nb);else roof(x,y,h,nb);break;
     case'C':
       if(nb(0,1)!='C'&&nb(0,1)!='D'){R(x,y,16,16,'#d0cec4');R(x,y,16,2,'#ffffff');R(x,y+2,16,1,'#a8a69c');
         for(const a of[1,9]){R(x+a,y+3,5,1,'#e4e2d8');R(x+a+1,y+4,3,10,'#ffffff');R(x+a+3,y+4,1,10,'#c4c2b8');R(x+a,y+14,5,2,'#e4e2d8');}
@@ -109,20 +114,20 @@ function tile(s,ch,tx,ty,fr,plain){
         if(nb(0,-1)!='C'){R(x,y,16,2,'#ffffff');R(x,y+2,16,1,'#a8a69c');}
         if(nb(-1,0)!='C')R(x,y,2,16,'#f4f2ea');if(nb(1,0)!='C')R(x+14,y,2,16,'#b8b6ac');}
       break;
-    case'w':{
-      R(x,y,16,16,'#2f6fb0');
-      for(let i=0;i<3;i++){const q=HH(h,i,11);R(x+q%12,y+2+(q>>4)%12,4+(q>>8)%3,2,'#2a64a2');}
+    case'w':{const WP=waterOf(s);
+      R(x,y,16,16,WP.base);
+      for(let i=0;i<3;i++){const q=HH(h,i,11);R(x+q%12,y+2+(q>>4)%12,4+(q>>8)%3,2,WP.dark);}
       for(let i=0;i<3;i++){const q=HH(h,i,12),a=(q%16+fr*2*(i&1?1:-1)+32)%16,b=2+i*5+(q>>4)%3;
-        for(let k=0;k<5;k++)R(x+(a+k)%16,y+b,1,1,k<2?'#a8dcf4':'#5aa0d8');}
+        for(let k=0;k<5;k++)R(x+(a+k)%16,y+b,1,1,k<2?WP.hi:WP.mid);}
       const land=q=>q!='w'&&q!='='&&q!='-';
       if(h%13==0&&!land(nb(0,-1))&&!land(nb(0,1))&&!land(nb(-1,0))&&!land(nb(1,0))){const a=x+3+(h>>5)%6,b=y+4+(h>>8)%6,bob=fr>>1;
-        R(a,b+bob+1,7,4,'#1e4a80');R(a,b+bob,7,4,'#3d8a3a');R(a+1,b+bob-1,5,6,'#3d8a3a');R(a+3,b+bob,1,2,'#2f6fb0');R(a+1,b+bob,2,1,'#68b854');
+        R(a,b+bob+1,7,4,WP.shade);R(a,b+bob,7,4,'#3d8a3a');R(a+1,b+bob-1,5,6,'#3d8a3a');R(a+3,b+bob,1,2,WP.base);R(a+1,b+bob,2,1,'#68b854');
         if(h%2)R(a+5,b+bob-1,2,2,'#f08098');}
       if(h%3==0){const a=x+(h>>4)%12,b=y+(h>>7)%12;if((fr+(h>>2))%4==0){R(a,b,3,1,'#e8f8ff');R(a+1,b-1,1,3,'#e8f8ff');}}
-      if(land(nb(0,-1))){R(x,y,16,3,'#1e4a80');for(let i=0;i<16;i++)if((i+fr+tx*3)%5<3)R(x+i,y+3,1,1,'#d8f4ff');}
-      if(land(nb(0,1)))for(let i=0;i<16;i++)if((i+fr+tx)%4<2)R(x+i,y+15,1,1,'#d8f4ff');
-      if(land(nb(-1,0)))for(let i=0;i<16;i++)if((i+fr+ty)%4<2)R(x,y+i,1,1,'#d8f4ff');
-      if(land(nb(1,0)))for(let i=0;i<16;i++)if((i+fr*3+ty)%4<2)R(x+15,y+i,1,1,'#d8f4ff');
+      if(land(nb(0,-1))){R(x,y,16,3,WP.shade);for(let i=0;i<16;i++)if((i+fr+tx*3)%5<3)R(x+i,y+3,1,1,WP.foam);}
+      if(land(nb(0,1)))for(let i=0;i<16;i++)if((i+fr+tx)%4<2)R(x+i,y+15,1,1,WP.foam);
+      if(land(nb(-1,0)))for(let i=0;i<16;i++)if((i+fr+ty)%4<2)R(x,y+i,1,1,WP.foam);
+      if(land(nb(1,0)))for(let i=0;i<16;i++)if((i+fr*3+ty)%4<2)R(x+15,y+i,1,1,WP.foam);
       if(nb(0,-1)=='='||nb(0,-1)=='-')R(x,y,16,4,'rgba(10,8,24,.35)');
       break;}
     case'_':R(x,y,16,16,'#0c0a14');
@@ -155,7 +160,7 @@ function tile(s,ch,tx,ty,fr,plain){
       break;
     case'f':ground(s,gb,x,y,h);
       if(nb(-1,0)=='f'||nb(1,0)=='f'){R(x,y+14,16,1,'rgba(10,8,24,.3)');R(x,y+6,16,1,'#18181e');R(x,y+11,16,1,'#18181e');
-        for(let i=2;i<16;i+=4){R(x+i,y+4,1,10,'#18181e');R(x+i,y+3,1,1,'#50505e');}R(x,y+2,2,12,'#282830');R(x,y+2,1,12,'#50505e');R(x,y+1,2,1,'#f2c14e');}
+        for(let i=2;i<16;i+=4){R(x+i,y+4,1,10,'#18181e');R(x+i-1,y+3,3,1,'#18181e');R(x+i,y+2,1,1,'#50505e');R(x+i+1,y+8,1,1,'#18181e');R(x+i+2,y+9,1,1,'#18181e');R(x+i+1,y+10,1,1,'#18181e');}R(x,y+2,2,12,'#282830');R(x,y+2,1,12,'#50505e');R(x,y+1,2,1,'#f2c14e');}
       else{R(x+9,y,1,16,'rgba(10,8,24,.3)');R(x+7,y,2,16,'#18181e');R(x+7,y,1,16,'#50505e');for(let i=0;i<16;i+=8){R(x+6,y+i,4,2,'#282830');R(x+7,y+i-1,2,1,'#f2c14e');}}
       break;
     case'P':R(x,y,16,16,'#b0aca0');for(let r=0;r<4;r++){R(x,y+r*4+3,16,1,'#8a867a');R(x+(r&1?4:0),y+r*4,1,3,'#8a867a');R(x+(r&1?12:8),y+r*4,1,3,'#8a867a');R(x,y+r*4,16,1,'#c6c2b6');}
@@ -223,9 +228,10 @@ function tile(s,ch,tx,ty,fr,plain){
       for(let i=3;i<16;i+=5)R(x+i,y+5,1,1,'#6a6672');R(x,y+8,16,1,'#5a2a1a');
       if(nb(0,1)!='Z'){R(x+1,y+10,6,6,'#1a1423');R(x+9,y+10,6,6,'#1a1423');R(x+2,y+11,4,4,'#7a1424');R(x+10,y+11,4,4,'#7a1424');R(x+3,y+12,2,2,'#4a0c14');R(x+11,y+12,2,2,'#4a0c14');}
       break;
-    case'~':{R(x,y,16,16,'#3a82c0');
-      for(let i=0;i<4;i++){const q=HH(h,i,13),a=(q%16+fr*4)%16,b=1+i*4+(q>>4)%2;R(x+a,y+b,5,2,'#e8f8ff');R(x+(a+7)%16,y+b+1,3,1,'#a8dcf4');R(x+(a+12)%16,y+b,2,1,'#ffffff');}
+    case'~':{const WP=waterOf(s);R(x,y,16,16,WP.rapid);
+      for(let i=0;i<4;i++){const q=HH(h,i,13),a=(q%16+fr*4)%16,b=1+i*4+(q>>4)%2;R(x+a,y+b,5,2,WP.foam);R(x+(a+7)%16,y+b+1,3,1,WP.hi);R(x+(a+12)%16,y+b,2,1,'#ffffff');}
       for(const [dx,dy] of [[0,-1],[0,1],[-1,0],[1,0]]){const q=nb(dx,dy);if(q!='~'&&q!='w'&&q!='=')R(x+(dx>0?14:0),y+(dy>0?14:0),dx?2:16,dy?2:16,'#ffffff');}
+      if(h%4==0)boulder(x,y,h);
       break;}
     case'b':ground(s,gb,x,y,h);R(x+2,y+12,13,3,'rgba(10,8,24,.3)');
       R(x+1,y+3,14,11,'#143c22');R(x+2,y+2,12,12,'#143c22');R(x+2,y+3,12,10,'#2f7a3c');R(x+3,y+2,10,11,'#2f7a3c');
@@ -330,10 +336,10 @@ function shadeTile(s,x,y){const t=s.g[y][x];if((SOLID.includes(t)&&t!='w')||t=='
   if(w&&'BCPW'.includes(w))R(x*TS,y*TS,3,16,'rgba(10,8,24,.2)');
   if(n=='T'||n=='r'||n=='b')R(x*TS+2,y*TS,12,1,'rgba(10,8,24,.2)');}
 function renderMap(s,fr){
-  const c=mkCanvas(s.w*TS,s.h*TS),old=g;g=c.getContext('2d');
+  const c=mkCanvas(s.w*TS,s.h*TS),old=g;g=c.getContext('2d');decorFor(s);
   for(let y=0;y<s.h;y++)for(let x=0;x<s.w;x++)tile(s,s.g[y][x],x,y,fr);
   for(let y=0;y<s.h;y++)for(let x=0;x<s.w;x++)shadeTile(s,x,y);
-  drawLandmarks(s,fr);
+  drawLandmarks(s,fr);drawDecor(s);
   g=old;return c;
 }
 function patchTile(tx,ty){const old=g;const ce=CVC.get(curId);if(ce)ce.sig=sigOf(cur);for(const j of jobs)if(j.id===curId&&j.cv)j.stale=1;cur.cv.forEach((c,fr)=>{if(!c)return;g=c.getContext('2d');g.clearRect(tx*TS,ty*TS,TS,TS);tile(cur,cur.g[ty][tx],tx,ty,fr);shadeTile(cur,tx,ty);});g=old;}

diff --git a/js/draw.js b/js/draw.js
@@ -14,9 +14,11 @@ function mtext(s,x,y,c,sh){s=String(s);if(sh!==false){let q=x+1;for(const ch of 
   for(const ch of s){const m=MF[ch];if(m)for(let i=0;i<15;i++)if(m[i]=='1')R(x+i%3,y+(i/3|0),1,1,c);x+=4;}}
 function D(s,x,y,white){g.drawImage(white?s.wht:s.c,Math.round(x),Math.round(y));}
 function shadow(x,y,w){x=Math.round(x);y=Math.round(y);R(x-w,y,w*2,3,'rgba(10,8,24,.3)');R(x-w+2,y-1,w*2-4,5,'rgba(10,8,24,.3)');}
-function panel(x,y,w,h){R(x+1,y,w-2,h,'#f4f4f8');R(x,y+1,w,h-2,'#f4f4f8');
+function panel(x,y,w,h){R(x+1,y,w-2,h,'#1a1a22');R(x,y+1,w,h-2,'#1a1a22');R(x+1,y+1,w-2,1,'#6a6a7a');R(x+1,y+1,1,h-2,'#6a6a7a');R(x+1,y+h-2,w-2,1,'#4a4a58');R(x+w-2,y+1,1,h-2,'#4a4a58');
   const gr=g.createLinearGradient(0,y,0,y+h);gr.addColorStop(0,'#2a3c9c');gr.addColorStop(1,'#0c1440');g.fillStyle=gr;g.fillRect(x+2,y+2,w-4,h-4);
-  R(x+3,y+3,w-6,1,'#6878d0');R(x+3,y+3,1,h-6,'#6878d0');R(x+3,y+h-4,w-6,1,'#080c28');R(x+w-4,y+3,1,h-6,'#080c28');}
+  R(x+3,y+3,w-6,1,'#6878d0');R(x+3,y+3,1,h-6,'#6878d0');R(x+3,y+h-4,w-6,1,'#080c28');R(x+w-4,y+3,1,h-6,'#080c28');
+  if(w>40&&h>20){ironCurl(x+3,y+3,1,1,'#9a9aaa','#f2c14e');ironCurl(x+w-4,y+3,-1,1,'#9a9aaa','#f2c14e');ironCurl(x+3,y+h-4,1,-1,'#9a9aaa','#f2c14e');ironCurl(x+w-4,y+h-4,-1,-1,'#9a9aaa','#f2c14e');
+    if(w>120){const m=x+(w>>1);R(m-2,y,5,1,'#9a9aaa');R(m-1,y-1,3,1,'#9a9aaa');R(m,y-2,1,1,'#f2c14e');}}}
 function paddleAt(an,glow){
   const ox=p.x,oy=p.y-3,cs=Math.cos(an),sn=Math.sin(an);
   for(let r=4;r<=17;r++){const q=r>=13?2:1;R(Math.round(ox+cs*r)-q,Math.round(oy+sn*r)-q,q*2+1,q*2+1,'#1a1423');}
@@ -357,13 +359,10 @@ function drawTitleBg(){
   SKY.forEach((c,i)=>{R(0,i*21,W,21,c);if(i)for(let x=0;x<W;x+=2){R(x,i*21,1,1,SKY[i-1]);R(x+1,i*21-1,1,1,c);}});
   for(let i=0;i<40;i++){const q=HH(i,3,9);if(((frame>>4)+i)%7)R(q%W,(q>>8)%70,1,1,i%5?'#c8d0f0':'#ffffff');}
   R(196,22,14,14,'#fff2c8');R(194,25,18,8,'#fff2c8');R(198,20,10,18,'#fff2c8');R(200,26,3,3,'#e8d8a0');R(205,31,2,2,'#e8d8a0');
-  for(let i=0;i<W;i+=13){const q=HH(i,5,2),h=22+q%34,w=9+(q>>6)%5;R(i,150-h,w,h,'#141226');R(i,150-h,1,h,'#24203c');
-    for(let y=150-h+4;y<146;y+=6)for(let x=i+2;x<i+w-2;x+=3)if(HH(x,y,4)%3==0)R(x,y,2,3,HH(x,y,(frame>>6))%9?'#f8d868':'#a88030');}
-  R(100,96,40,54,'#141226');R(104,90,32,6,'#141226');R(112,84,16,6,'#141226');for(let x=104;x<136;x+=6)R(x,100,2,30,'#2c2848');
-  R(0,134,W,5,'#0c0a18');R(0,133,W,1,'#3a3458');
-  for(let i=-8;i<W;i+=34){R(i,139,7,16,'#0c0a18');for(let k=0;k<5;k++){R(i+7+k,139,1,5-k,'#0c0a18');R(i+33-k,139,1,5-k,'#0c0a18');}}
+  drawSkyline();
   ['#3a2a66','#2a2660','#1c2250','#141a44'].forEach((c,i)=>R(0,150+i*13,W,13,c));
   for(let i=0;i<26;i++){const q=HH(i,8,1),y=152+(q>>8)%46;R(((q%W)+((frame>>2)*(i&1?1:-1))+W*4)%W,y,6+(q>>4)%10,1,i%4?'#6a5a9a':'#f0a878');}
+  drawRiverFront();
   drawFog(.2);
 }
 function draw(){

diff --git a/js/core.js b/js/core.js
@@ -165,11 +165,11 @@ function runJob(){
   const j=jobs[0];if(!j)return false;
   if(j.pre){jobs.shift();const s=SC[j.pre];applyDyn(s);if(cacheGet(s))return true;j.e=null;j.s=s;j.id=s.id;j.fr=0;j.new=true;jobs.unshift(j);delete j.pre;return true;}
   const s=SC[j.id];
-  if(!j.cv){if(j.fr>0&&j.e.cv[j.fr]){jobs.shift();return true;}j.cv=mkCanvas(s.w*TS,s.h*TS);j.y=0;j.ph=0;if(j.fr==0)s.torches=[];}
+  if(!j.cv){if(j.fr>0&&j.e.cv[j.fr]){jobs.shift();return true;}j.cv=mkCanvas(s.w*TS,s.h*TS);decorFor(s);j.y=0;j.ph=0;if(j.fr==0)s.torches=[];}
   const old=g;g=j.cv.getContext('2d');
   if(j.ph==0){const y1=Math.min(s.h,j.y+4);for(let y=j.y;y<y1;y++)for(let x=0;x<s.w;x++)tile(s,s.g[y][x],x,y,j.fr);j.y=y1;if(j.y>=s.h){j.ph=1;j.y=0;}}
   else if(j.ph==1){const y1=Math.min(s.h,j.y+8);for(let y=j.y;y<y1;y++)for(let x=0;x<s.w;x++)shadeTile(s,x,y);j.y=y1;if(j.y>=s.h)j.ph=2;}
-  else{drawLandmarks(s,j.fr);jobs.shift();
+  else{drawLandmarks(s,j.fr);drawDecor(s);jobs.shift();
     if(j.new){applyDyn(s);cachePut(s,sigOf(s),j.cv);}
     else if(j.stale){j.cv=null;j.stale=0;jobs.push(j);}
     else if(CVC.get(j.id)===j.e)j.e.cv[j.fr]=j.cv;}

diff --git a/sw.js b/sw.js
@@ -1,6 +1,6 @@
 /* River City Quest offline cache. Bump VERSION whenever any game file changes. */
-const VERSION='rcq-v12';
-const FILES=['./','index.html','js/world.js','js/core.js','js/people.js','js/play.js','js/art.js','js/draw.js','js/systems.js','js/minigames.js','js/extras.js','js/main.js','js/music.js','manifest.webmanifest','icon-192.png','icon-512.png','icon-180.png'];
+const VERSION='rcq-v13';
+const FILES=['./','index.html','js/world.js','js/core.js','js/people.js','js/play.js','js/art.js','js/style.js','js/draw.js','js/systems.js','js/minigames.js','js/extras.js','js/main.js','js/music.js','manifest.webmanifest','icon-192.png','icon-512.png','icon-180.png'];
 self.addEventListener('install',e=>{e.waitUntil(caches.open(VERSION).then(c=>c.addAll(FILES)).then(()=>self.skipWaiting()));});
 self.addEventListener('activate',e=>{e.waitUntil(caches.keys().then(ks=>Promise.all(ks.filter(k=>k!==VERSION).map(k=>caches.delete(k)))).then(()=>self.clients.claim()));});
 self.addEventListener('fetch',e=>{if(e.request.method!=='GET')return;

diff --git a/index.html b/index.html
@@ -100,6 +100,7 @@ canvas{display:block;max-width:100%;max-height:100%;image-rendering:pixelated;bo
 <script src="js/people.js"></script>
 <script src="js/play.js"></script>
 <script src="js/art.js"></script>
+<script src="js/style.js"></script>
 <script src="js/draw.js"></script>
 <script src="js/systems.js"></script>
 <script src="js/minigames.js"></script>

diff --git a/README.md b/README.md
@@ -18,6 +18,8 @@ A top-down adventure game set in Richmond, Virginia. A cold fog has rolled up of
 | Snow in the Fan | Belle Isle | The Iron Foreman at Tredegar |
 | ![Fishing at Pony Pasture](screenshots/fishing.png) | ![Landmark cards](screenshots/cards.png) | ![The Titan Arum](screenshots/titan-arum.png) |
 | Fishing at Pony Pasture | Landmark cards | The Titan Arum in the conservatory |
+| ![Jackson Ward](screenshots/jackson-ward.png) | ![A ghost sign in Shockoe](screenshots/shockoe-ghost-sign.png) | ![The Carillon at night](screenshots/broad-street-night.png) |
+| Cast-iron porches in Jackson Ward | A ghost sign in Shockoe Bottom | Broad Street at night |
 | ![The opening](screenshots/opening.png) | ![Soapbox derby](screenshots/soapbox-derby.png) | ![The city map](screenshots/city-map.png) |
 | The opening | The Libby Hill soapbox derby | The city map, with bus travel |
 
@@ -39,6 +41,7 @@ Progress saves automatically in your browser, in one of three save slots. OPTION
 ## What's in it
 
 - **19 scrolling neighborhoods**, each a big map you explore in any direction: Bryan Park and Lewis Ginter Botanical Garden up north, Scott's Addition, Broad Street, Jackson Ward, Church Hill, Chimborazo, Carytown and the VMFA, the Fan, Capitol Square, Shockoe Bottom, Byrd Park and Maymont, Hollywood Cemetery, Belle Isle, Rocketts Landing, and south of the river, Pony Pasture, Forest Hill Park, Manchester and Ancarrow's Landing.
+- **A Richmond look:** cast-iron porches in Jackson Ward, clapboard houses and tin roofs on Church Hill, bay windows in the Fan, arched-window warehouses in Shockoe, Scott's Addition and Manchester, faded ghost signs and murals on old brick, a tea-green James with granite boulders in the rapids, magnolias and dogwoods, iron scrollwork on the menus, and the real skyline on the title screen.
 - **Landmarks drawn as themselves:** The Diamond's grandstand, the Broad Street department stores, the Hippodrome, St. John's Church, the Capitol and its bell tower, Main Street Station, the 17th Street Market, the Carillon, Maymont House, the granite pyramid, Monroe's tomb, the Belle Isle ruins, a steamboat at Rocketts, Forest Hill's Stone House and an old trolley.
 - **Street life:** townspeople who walk around and chat, buses and cars that stop for you, pigeons that scatter, gas lamps, benches, cafe tables and murals.
 - **A challenge in every neighborhood,** from shagging fly balls at The Diamond and lighting Church Hill's gas lamps to a Monument Avenue race, a Richmond history quiz and a mural hunt in Manchester. Each first win earns a city pin. Collect all 14 for a golden paddle.
@@ -74,6 +77,7 @@ No build step and no dependencies. Open `index.html` in a browser to play locall
 - `js/people.js`: challenges, items, the shop and what everyone in town says
 - `js/play.js`: movement, enemies, bosses, the update loop and menu controls
 - `js/art.js`: tile art and the hand-drawn landmarks
+- `js/style.js`: Richmond's look: ironwork, ghost signs, murals, house styles, river colors, trees and the skyline
 - `js/draw.js`: the world, HUD, menus, title and ending screens
 - `js/minigames.js`: batting practice, pinball and the soapbox derby
 - `js/extras.js`: the relighting finale, bus travel, the quest log, secrets, seasons and extra sounds
